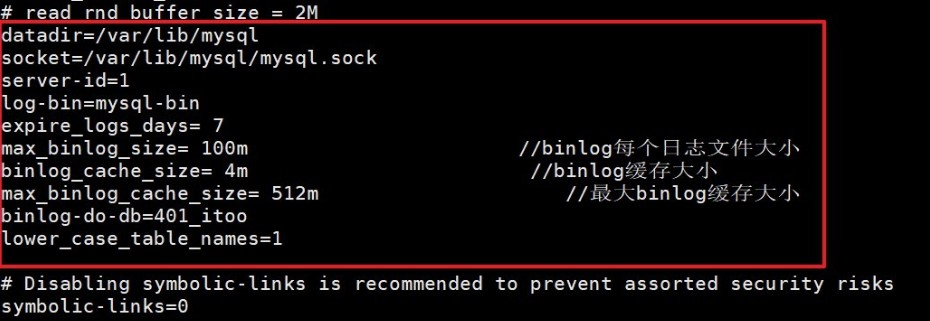
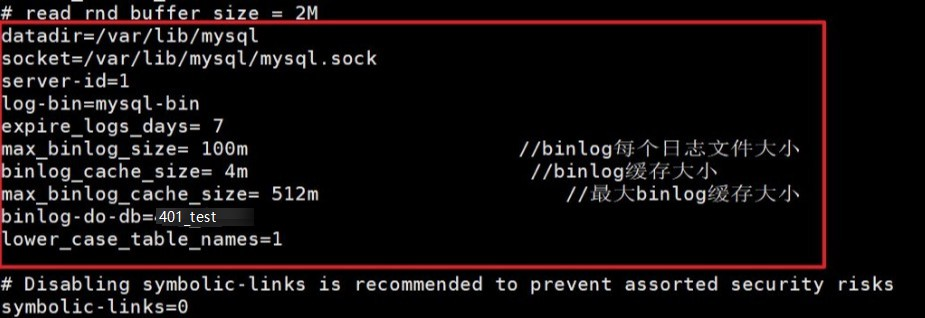
修改文章样式及更换图片-郑璐璐-2019年10月2日20:23:18

Changed region(s): [[0.0, 0.0, 0.9686, 1.0]]

diff --git a/_posts/2019-09-26-mysql-master-slave-install.md b/_posts/2019-09-26-mysql-master-slave-install.md
@@ -72,7 +72,7 @@ expire_logs_days= 7
 max_binlog_size= 100m                       //binlog每个日志文件大小
 binlog_cache_size= 4m                        //binlog缓存大小
 max_binlog_cache_size= 512m                     //最大binlog缓存大小
-binlog-do-db=401_itoo
+binlog-do-db=401_test
 lower_case_table_names=1
 ```
 
